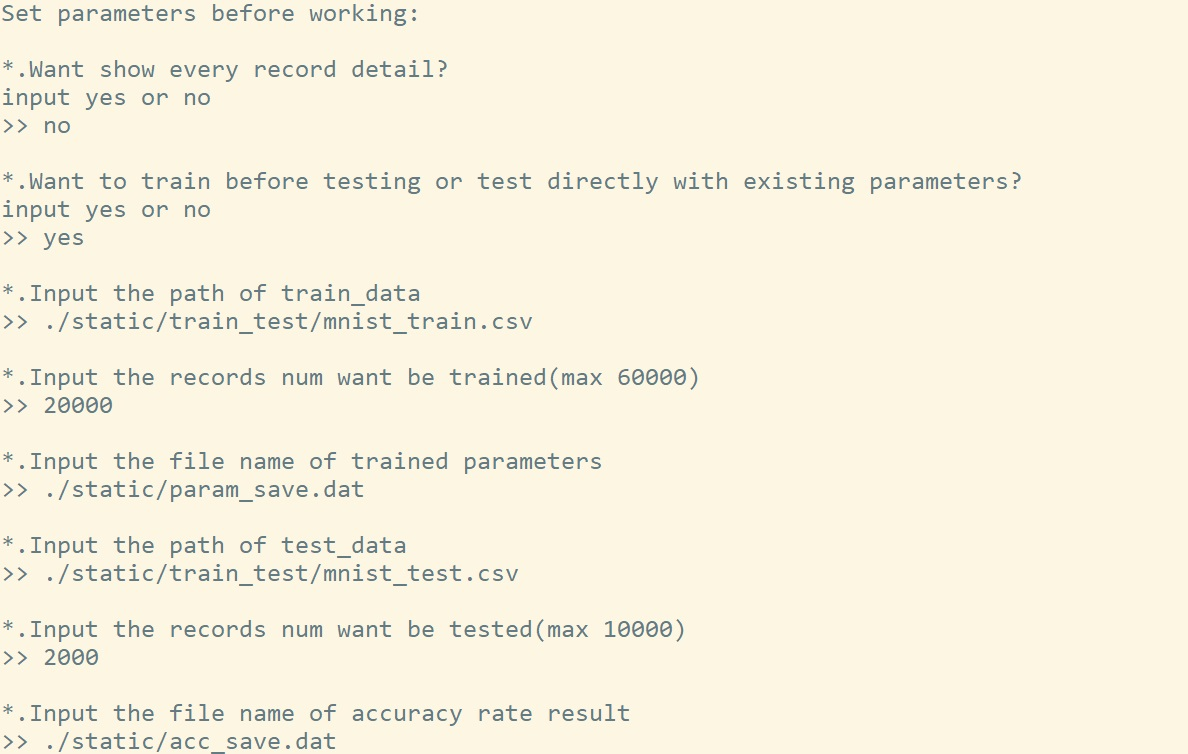
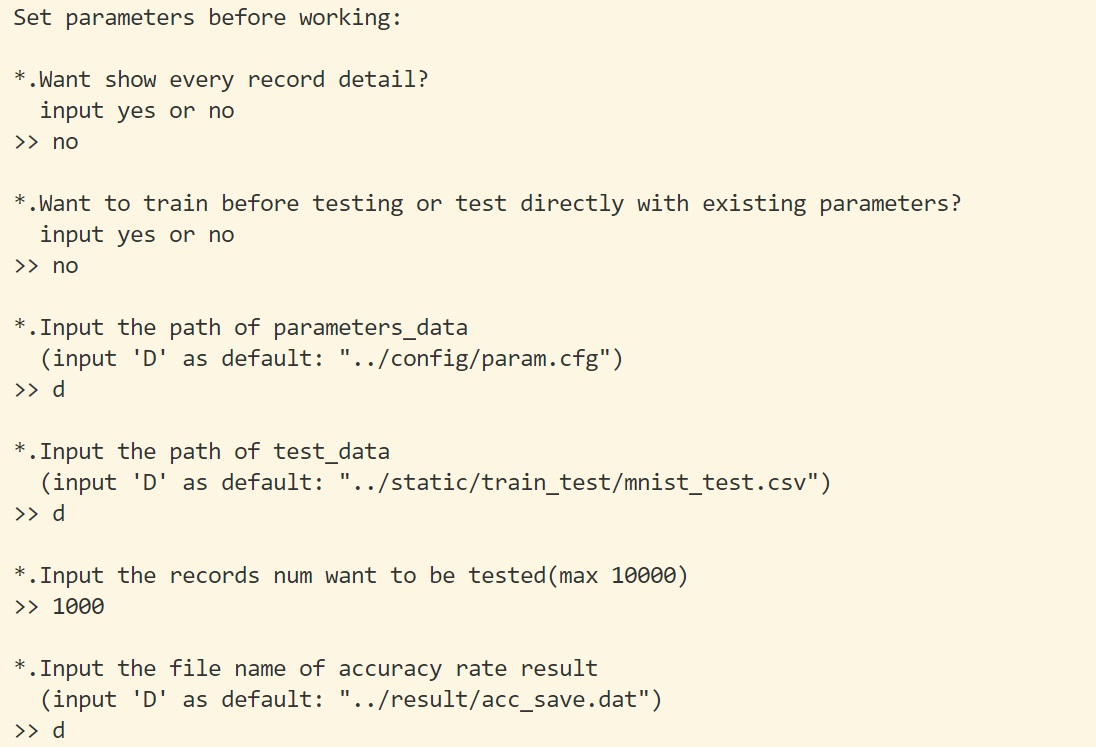
herixth 2019-1-4

diff --git a/README.md b/README.md
@@ -9,12 +9,11 @@
 本项目利用全连接神经网络对手写体数字进行训练与识别。
 
 - 训练与测试均采用MNIST数据集。
-- 采用全连接神经网络，相关超参数:
+- 采用全连接神经网络，相关超参数存储在`.\config\hyparam.cfg`下
 
-> - 输入层：<a href="https://www.codecogs.com/eqnedit.php?latex=\inline&space;28\times28=784" target="_blank"><img src="https://latex.codecogs.com/gif.latex?\inline&space;28\times28=784" title="28\times28=784" /></a>维列向量。
-> - 输出层：10维列向量。
-> - 隐藏层：1层，300维列向量。
-> - 学习速率: <a href="https://www.codecogs.com/eqnedit.php?latex=\eta=0.35" target="_blank"><img src="https://latex.codecogs.com/gif.latex?\eta=0.35" title="\eta=0.35" /></a>
+> - hl_num 隐藏层数
+> - hl_nodes_num 隐藏层结点数
+> - rate 学习速率
 
 - 相关算法:
 
@@ -27,14 +26,20 @@
 
 ## 数据结构
 
+待补
+
 
 ## 算法推导
 
 ### 随机梯度下降
 
+待补
+
 [参考内容](https://www.zybuluo.com/hanbingtao/note/448086)
 
 ### 反向传播算法
+
+待补
 
 [参考内容](https://www.zybuluo.com/hanbingtao/note/476663)
 
@@ -63,14 +68,25 @@ MNIST数据集不能直接使用，用脚本对原始数据处理，得到两份
 ```
 .
 ├── bin
-|    ├── MNIST.zip        # MNIST原始数据集
-|    └── convert.py       # py2脚本，可将MNIST原始数据集转化为*.csv格式 (使用时修改路径)
+|    ├── MNIST.zip         # MNIST原始数据集
+|    └── convert.py        # py2脚本，可将MNIST原始数据集转化为*.csv格式 (使用时修改路径)
+├── config
+|    ├── hyparam.cfg       # 超参数配置
+|    └── param.cfg         # 训练参数配置(可重新训练)
 ├── img
-|    ├── frame.jpg        # 展示图1
-|    ├── release.jpg      # 效果图1
-|    └── param_set.jpg    # 效果图2
+|    ├── frame.jpg         # 展示图1
+|    ├── release.jpg       # 效果图1
+|    └── param_set.jpg     # 效果图2
+├── params                 # 参与者贡献的数据文件集合
+|    ├── ...
+|    └── A_B_C.zip         # A:参与者姓名   B:隐藏层数   C:隐藏层结点数
+|         ├── hyparam.cfg  # 该测试所用的超参数配置
+|         ├── param.cfg    # 训练得到的参数配置
+|         └── README.txt   # 此次测试的简单说明(包括训练组数，测试组数，准确率以及对源码的改进等)
 ├── release
 |    └── Handwriting_digit_rec_MLP.exe    # 可执行程序
+├── result
+|    └── acc_save.dat      # 测试的结果保存文件(默认) 
 ├── src
 |    ├── Assistant.cpp     # 训练助手类实现
 |    ├── Assistant.h       # 训练助手类定义
@@ -80,8 +96,6 @@ MNIST数据集不能直接使用，用脚本对原始数据处理，得到两份
 |    ├── MLP_Neural_Network.h    # 多层全连接神经网络类定义
 |    └── demo.cpp          # 主函数入口，效果展示
 ├── static
-|    ├── acc_save.dat      # 测试结果
-|    ├── param_save.dat    # 神经网络参数
 |    └── train_test.zip    # 训练和测试数据(*.csv)，使用时解压
 └── README.md              # 说明文档
 ```
@@ -90,15 +104,29 @@ MNIST数据集不能直接使用，用脚本对原始数据处理，得到两份
 
 ## 使用方法
 
+该流程仅作演示。
+
 > - 测试环境：windows 10
-> - 命令行： `git bash`，`cmd`做相应处理
 >
-> - 现有数据: `./static/param_save.dat`是训练`./static/train_test/mnist_train.csv`20000组得到的
-> - 测试结果：测试结果保存在`./static/acc_save.dat`中，在之前的测试结果后追加
+> - 命令行： `cmd`
+>
+> - 超参数配置: `.\config\hyparam.cfg`
+>
+>   > 隐藏层: 1
+>   >
+>   > 隐藏层结点: 300
+>   >
+>   > 学习速率: 0.35
+>
+> - 训练参数配置: `.\config\param.cfg`
+>
+>   > 训练`.\static\train_test\mnist_train.csv` 60000组得到
+>
+> - 测试结果：测试结果默认保存在`.\result\acc_save.dat`中，在之前的测试结果后追加
 
-1. 命令行当前在工作目录$./$即`./Handwritten-digit-recognition-CPP/`下。
+1. 命令行当前在`release`目录即`.\release\`下。
 
-2. `./release/Handwriting_digit_rec_MLP.exe`运行程序
+2. `.\Handwriting_digit_rec_MLP.exe`运行程序
 
    ![re](./img/release.jpg)
 
